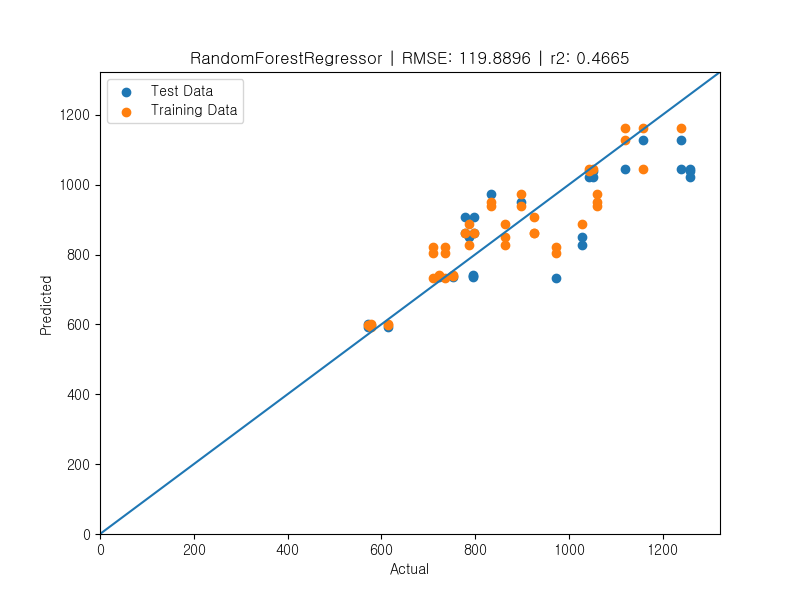
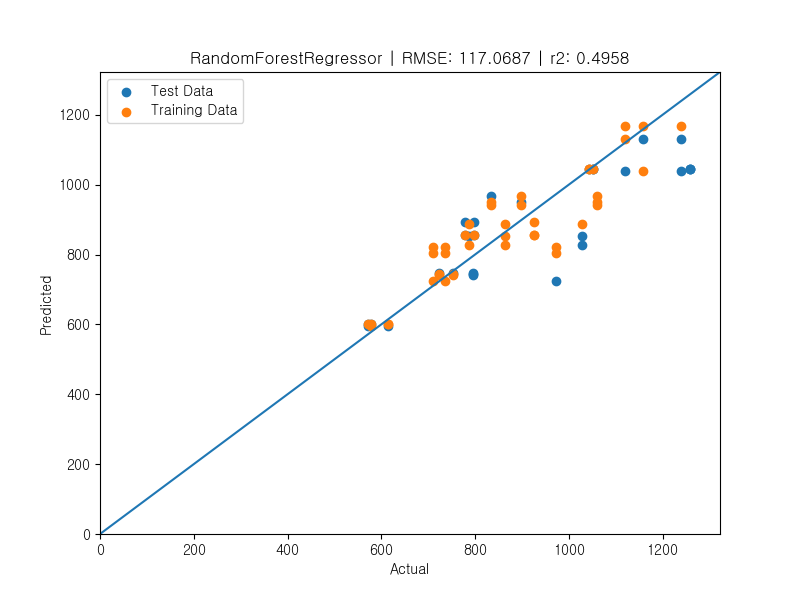
변수 중요도 및 예측 결과 수정

diff --git a/iksan/models_feature.py b/iksan/models_feature.py
@@ -20,8 +20,8 @@ from sklearn.metrics import mean_absolute_error, r2_score, mean_squared_error
 
 
 def draw_feature_importance(df, featurefig_output_dir, model_name):
-    feature_importance_figname = os.path.join(featurefig_output_dir, f'{model_name}importance.png')
-    feature_importance_filename = os.path.join(featurefig_output_dir, f'{model_name}importance.csv')
+    feature_importance_figname = os.path.join(featurefig_output_dir, f'fig_{model_name}importance.png')
+    feature_importance_filename = os.path.join(featurefig_output_dir, f'raw_{model_name}importance.csv')
 
     model = None
     if 'XGB' in model_name:
@@ -41,7 +41,9 @@ def draw_feature_importance(df, featurefig_output_dir, model_name):
     feature_importance_df = pd.DataFrame({'Feature': X.columns, 'Importance': feature_importance})
     feature_importance_df = feature_importance_df.sort_values(by='Importance')
 
-    feature_importance_df.to_csv(feature_importance_filename, index=False)
+    save_df = feature_importance_df.sort_values(by='Importance', ascending=False)
+    save_df.to_csv(feature_importance_filename, index=False)
+
     top_10_features = feature_importance_df.nlargest(10, 'Importance')
     top_10_features = top_10_features.sort_values(by='Importance')
 
@@ -58,23 +60,31 @@ def main():
     featurefig_output_dir = '../output/feature'
     if not os.path.exists(featurefig_output_dir):
         os.mkdir(featurefig_output_dir)
+    filename = f'../output/iksan_data_all_test.csv'
 
+    df = pd.read_csv(filename)
+    # df = df[df['반복'] != '평균']
+    df = df.drop(columns='반복')
+    df['종자_생체중_수확기'] = df['종자_생체중_수확기'] * 25
+
+    draw_feature_importance(df, featurefig_output_dir, f'XGB')
+    draw_feature_importance(df, featurefig_output_dir, f'RF')
 
     # data_filename = '../output/iksan_data_drone.csv'
     # data_filename = '../output/iksan_data_all.csv'
     # # data_filename = '../output/iksan_data_plant.csv'
 
-    file_dict = ['drone', 'plant', 'all_test']
-    for key in file_dict:
-        filename = f'../output/iksan_data_{key}.csv'
-
-        df = pd.read_csv(filename)
-        # df = df[df['반복'] != '평균']
-        df = df.drop(columns='반복')
-        df['종자_생체중_수확기'] = df['종자_생체중_수확기'] * 25
-
-        draw_feature_importance(df, featurefig_output_dir, f'XGB{key}')
-        draw_feature_importance(df, featurefig_output_dir, f'RF{key}')
+    # file_dict = ['drone', 'plant', 'all_test']
+    # for key in file_dict:
+    #     filename = f'../output/iksan_data_{key}.csv'
+    #
+    #     df = pd.read_csv(filename)
+    #     # df = df[df['반복'] != '평균']
+    #     df = df.drop(columns='반복')
+    #     df['종자_생체중_수확기'] = df['종자_생체중_수확기'] * 25
+    #
+    #     draw_feature_importance(df, featurefig_output_dir, f'XGB{key}')
+    #     draw_feature_importance(df, featurefig_output_dir, f'RF{key}')
 
 
 if __name__ == '__main__':

diff --git a/iksan/rf_model.py b/iksan/rf_model.py
@@ -34,8 +34,9 @@ def predict_yield(df, feature_predict_figname):
     # X_cols = ['LAI_분얼후기', 'GNDVI_개화후2주', '군집(LAI)_개화기', '초장(cm)_분얼후기', 'NDRE_개화기', '엽록소함량(µmol/m2)_개화후4주', 'CVI_개화후2주', 'SPAD_분얼전기', '군집(LAI)_개화후2주', '간장(cm)_개화후2주', '관개', '시비', '파종']
     # X_cols = ['GNDVI_개화후2주', '군집(LAI)_개화기', 'NDRE_개화기', '엽록소함량(µmol/m2)_개화후4주', 'CVI_개화후2주',
     #           '군집(LAI)_개화후2주', '간장(cm)_개화후2주', '관개', '시비', '파종']
-    X_cols = ['LAI_분얼전기', '간장(cm)_개화후4주', '엽록소함량(µmol/m2)_개화후2주', '군집(LAI)_개화기', '초장(cm)_분얼후기', 'LAI_분얼후기',
-     '엽록소함량(µmol/m2)_개화후4주', 'SPAD_분얼전기', '군집(LAI)_개화후2주', '간장(cm)_개화후2주']
+
+    X_cols = ['간장(cm)_개화후2주', '군집(LAI)_개화후2주', 'SPAD_분얼전기', '엽록소함량(µmol/m2)_개화후4주']
+    print(X_cols)
     plot_cols = ['관개', '시비', '파종']
     X_cols =  plot_cols + X_cols
     X = df[X_cols]

diff --git a/iksan/xgb_model.py b/iksan/xgb_model.py
@@ -34,8 +34,8 @@ def predict_yield(df, feature_predict_figname):
     plot_cols = ['관개', '시비', '파종']
     X_cols = ['LAI_분얼전기', '간장(cm)_개화후4주', '엽록소함량(µmol/m2)_개화후2주', '군집(LAI)_개화기', '초장(cm)_분얼후기', 'LAI_분얼후기', '엽록소함량(µmol/m2)_개화후4주', 'SPAD_분얼전기', '군집(LAI)_개화후2주', '간장(cm)_개화후2주']
     # X_cols = ['간장(cm)_개화후4주', '엽록소함량(µmol/m2)_개화후2주', '군집(LAI)_개화기', '엽록소함량(µmol/m2)_개화후4주', '군집(LAI)_개화후2주', '간장(cm)_개화후2주']
-
-
+    X_cols = ['군집(LAI)_개화후2주', '초장(cm)_분얼후기', 'SPAD_분얼전기', '초장(cm)_분얼전기']
+    print(X_cols)
     X_cols =  plot_cols + X_cols
     X = df[X_cols]
     X_train, X_test, y_train, y_test = train_test_split(X, y, train_size=0.6, random_state=42)

diff --git a/iksan/README.md b/iksan/README.md
@@ -1,18 +1,32 @@
 #### 3차(드론 데이터 생체중/건조중 반복에 대해  LAI 등 조사결과 10반복 병합)
-변수 중요도에 따라 top 10 사용
+변수 중요도에 따라 top 4 사용
 
-* RabdomForest
+XGB 4개만 중요하게 나타남
 
-MAE: 92.93, R2score: 0.47, RMSE: 119.89
+RF 처음에 10개 다 쓰고 XGB 4개만 써서 똑같이 해봤는데 4개만 사용했을 때 더 좋은 성능
 
-![image](https://github.com/SmartDigitalAg/Wheat-Yield-Estimation/assets/93760723/d65446a7-b638-4f93-82d9-e1ae8709e043)
+* RandomForest
+
+'간장(cm)_개화후2주', '군집(LAI)_개화후2주', 'SPAD_분얼전기', '엽록소함량(µmol/m2)_개화후4주' + 관개/시비/파종
+
+MAE: 88.93m, R2score: 0.50, RMSE: 117.07
+
+![RF importance](https://github.com/SmartDigitalAg/Wheat-Yield-Estimation/assets/93760723/08ff53b3-de89-46dd-a34d-70c6bdfa03bb)
+
+![RF predict](https://github.com/SmartDigitalAg/Wheat-Yield-Estimation/assets/93760723/e0e66e84-11db-4835-acf6-77d5f55ebdb3)
 
 
 * XGB
 
-MAE: 94.51, R2score: 0.49, RMSE: 122.44
+'군집(LAI)_개화후2주', '초장(cm)_분얼후기', 'SPAD_분얼전기', '초장(cm)_분얼전기' + 관개/시비/파종
 
-![image](https://github.com/SmartDigitalAg/Wheat-Yield-Estimation/assets/93760723/74715496-ceb1-4945-a8ec-f4f6e0021fdc)
+MAE: 86.31, R2score: 0.59, RMSE: 114.31
+
+![XGB importance](https://github.com/SmartDigitalAg/Wheat-Yield-Estimation/assets/93760723/8339cf68-d805-4799-9f22-117fa9f0508e)
+
+![XGB predict](https://github.com/SmartDigitalAg/Wheat-Yield-Estimation/assets/93760723/9f25df1d-d73a-4fdd-9c1d-dec893cb092e)
+
+
 
 
 #### 2차(드론 데이터 사용 O)
